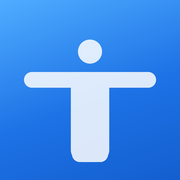
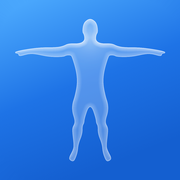
Add files via upload

Changed region(s): [[0.0833, 0.0833, 0.9167, 0.9167]]

diff --git a/index.html b/index.html
@@ -8,8 +8,8 @@
 <meta name="apple-mobile-web-app-status-bar-style" content="black-translucent">
 <meta name="apple-mobile-web-app-title" content="Trainer">
 <meta name="theme-color" content="#16181C">
-<link rel="manifest" href="manifest.json?v=3">
-<link rel="apple-touch-icon" href="icon-180.png?v=3">
+<link rel="manifest" href="manifest.json?v=4">
+<link rel="apple-touch-icon" href="icon-180.png?v=4">
 <title>Trainer</title>
 <!-- Darstellung sofort setzen (vor dem ersten Malen), damit es im Hellmodus
      nicht kurz dunkel aufblitzt. Schlüssel = trainer.darstellung (siehe darstellungAnwenden). -->
@@ -1378,7 +1378,7 @@ async function anmelden(){
    ANZEIGE_VERSION = wird daraus ABGELEITET: Update Nr. 10 => "0.010".
                      So können die beiden nie auseinanderlaufen.
                      Zur 1.0 wird die Formel durch "1.0" ersetzt. */
-const APP_VERSION = 62;
+const APP_VERSION = 63;
 const ANZEIGE_VERSION = (APP_VERSION / 1000).toFixed(3);
 
 /** Ergänzt Felder, die in älteren Datenständen fehlen (statt Migrationschaos). */

diff --git a/sw.js b/sw.js
@@ -11,7 +11,7 @@
    ============================================================ */
 "use strict";
 
-const VERSION = "v62";
+const VERSION = "v63";
 const CACHE = "trainingsapp-" + VERSION;
 const DATEIEN = ["./", "index.html", "manifest.json", "icon-192.png", "icon-512.png", "icon-180.png"];
 

diff --git a/icons.py b/icons.py
@@ -1,71 +1,37 @@
-"""Erzeugt die App-Icons: weiße Athleten-Figur auf blauem Verlauf.
+"""Erzeugt die App-Icons aus dem Master-PNG des Designs.
 
-Vorlage ist das im Claude-Design gebaute Icon (Trainer_Icon.html, viewBox
-0 0 300 300): ein abgerundetes Quadrat mit einer Figur aus Kopf, breitem
-Arm-Querbalken, Rumpf und zwei Beinen, Figur bei 85 % Deckkraft.
+Quelle: Trainer-Icon-1024.png (1024x1024, RGBA) neben diesem Skript - die
+glasige Athleten-Figur auf blauem Verlauf, exakt aus dem Claude-Design
+exportiert. Das Master hat abgerundete Ecken mit TRANSPARENTEM Aussenrand.
 
-Zwei bewusste Abweichungen von der SVG, damit es als Home-Screen-Icon
-sauber aussieht:
-  1. RANDLOS quadratisch (keine eingebauten runden Ecken) - iOS/Android
-     legen ihre eigene Maske drueber; sonst gaebe es doppelte Ecken.
-  2. Der Verlauf der Live-Version (#4fadff -> #1e73e6 -> #145fd0) statt des
-     flachen Blaus der statischen SVG-Vorschau.
+Warum wir es nicht 1:1 nehmen: Home-Screen-Icons rundet iOS/Android selbst.
+Eingebackene runde Ecken + Systemmaske ergaeben doppelte Ecken bzw. schwarze
+Schnipsel (Transparenz wird dort schwarz gefuellt). Deshalb fuellen wir die
+transparenten Ecken NAHTLOS auf, indem wir den jeweils naechsten
+undurchsichtigen Bildpunkt fortsetzen (scipy-Distanztransformation). So bleibt
+Figur + Verlauf 1:1 erhalten, das Icon wird aber randlos-quadratisch.
 
-Gerendert wird EIN grosser Master mit Supersampling, dann per LANCZOS auf
-512/192/180 heruntergerechnet - das glaettet die Rundungen.
+Danach per LANCZOS auf 512/192/180 herunterrechnen.
 """
-import math
 import numpy as np
-from PIL import Image, ImageDraw
+from scipy import ndimage
+from PIL import Image
 
-V         = 300
-WINKEL    = 160
-STOPS     = [(0.00, (79, 173, 255)),
-             (0.55, (30, 115, 230)),
-             (1.00, (20,  95, 208))]
-FIG_RGB   = (255, 255, 255)
-FIG_ALPHA = 0.85
+QUELLE = "/home/claude/trainer/Trainer-Icon-1024.png"
 
-BASIS = 512
-SS    = 4
-M     = BASIS * SS
+im  = Image.open(QUELLE).convert("RGBA")
+arr = np.array(im)
+rgb, alpha = arr[..., :3], arr[..., 3]
 
-a = math.radians(WINKEL)
-dx, dy = math.sin(a), -math.cos(a)
-ys, xs = np.mgrid[0:M, 0:M].astype(np.float32)
-t = xs * dx + ys * dy
-t = (t - t.min()) / (t.max() - t.min())
-
-def verlauf(t):
-    out = np.zeros(t.shape + (3,), np.float32)
-    for i in range(len(STOPS) - 1):
-        t0, c0 = STOPS[i]
-        t1, c1 = STOPS[i + 1]
-        m = (t >= t0) & (t <= t1) if i == 0 else (t > t0) & (t <= t1)
-        f = (t[m] - t0) / (t1 - t0)
-        for k in range(3):
-            out[m, k] = c0[k] + (c1[k] - c0[k]) * f
-    return out
-
-master = Image.fromarray(verlauf(t).astype(np.uint8), "RGB")
-
-s = M / V
-maske = Image.new("L", (M, M), 0)
-d = ImageDraw.Draw(maske)
-def rr(x, y, w, h, r):
-    d.rounded_rectangle([x * s, y * s, (x + w) * s, (y + h) * s], radius=r * s, fill=255)
-
-d.ellipse([(150 - 20) * s, (86 - 20) * s, (150 + 20) * s, (86 + 20) * s], fill=255)
-rr(40, 120, 220, 26, 13)
-rr(118, 120, 64, 150, 20)
-rr(120, 200, 26, 70, 13)
-rr(154, 200, 26, 70, 13)
-
-weiss   = Image.new("RGB", (M, M), FIG_RGB)
-maske85 = maske.point(lambda v: int(v * FIG_ALPHA))
-master  = Image.composite(weiss, master, maske85)
+# Fuer jeden Pixel den naechsten UNDURCHSICHTIGEN Pixel finden und dessen
+# Farbe uebernehmen. Undurchsichtige Pixel bleiben sie selbst; die transparenten
+# Ecken bekommen die Farbe der naechsten Kante -> Verlauf laeuft nahtlos weiter.
+transparent = alpha == 0
+idx = ndimage.distance_transform_edt(transparent, return_distances=False, return_indices=True)
+randlos = rgb[idx[0], idx[1]]
+master  = Image.fromarray(randlos.astype(np.uint8), "RGB")
 
 for groesse in (512, 192, 180):
     master.resize((groesse, groesse), Image.LANCZOS).save(
         f"/home/claude/trainer/icon-{groesse}.png", optimize=True)
-print("Icons erzeugt: icon-512.png, icon-192.png, icon-180.png")
+print("Icons erzeugt aus", QUELLE)